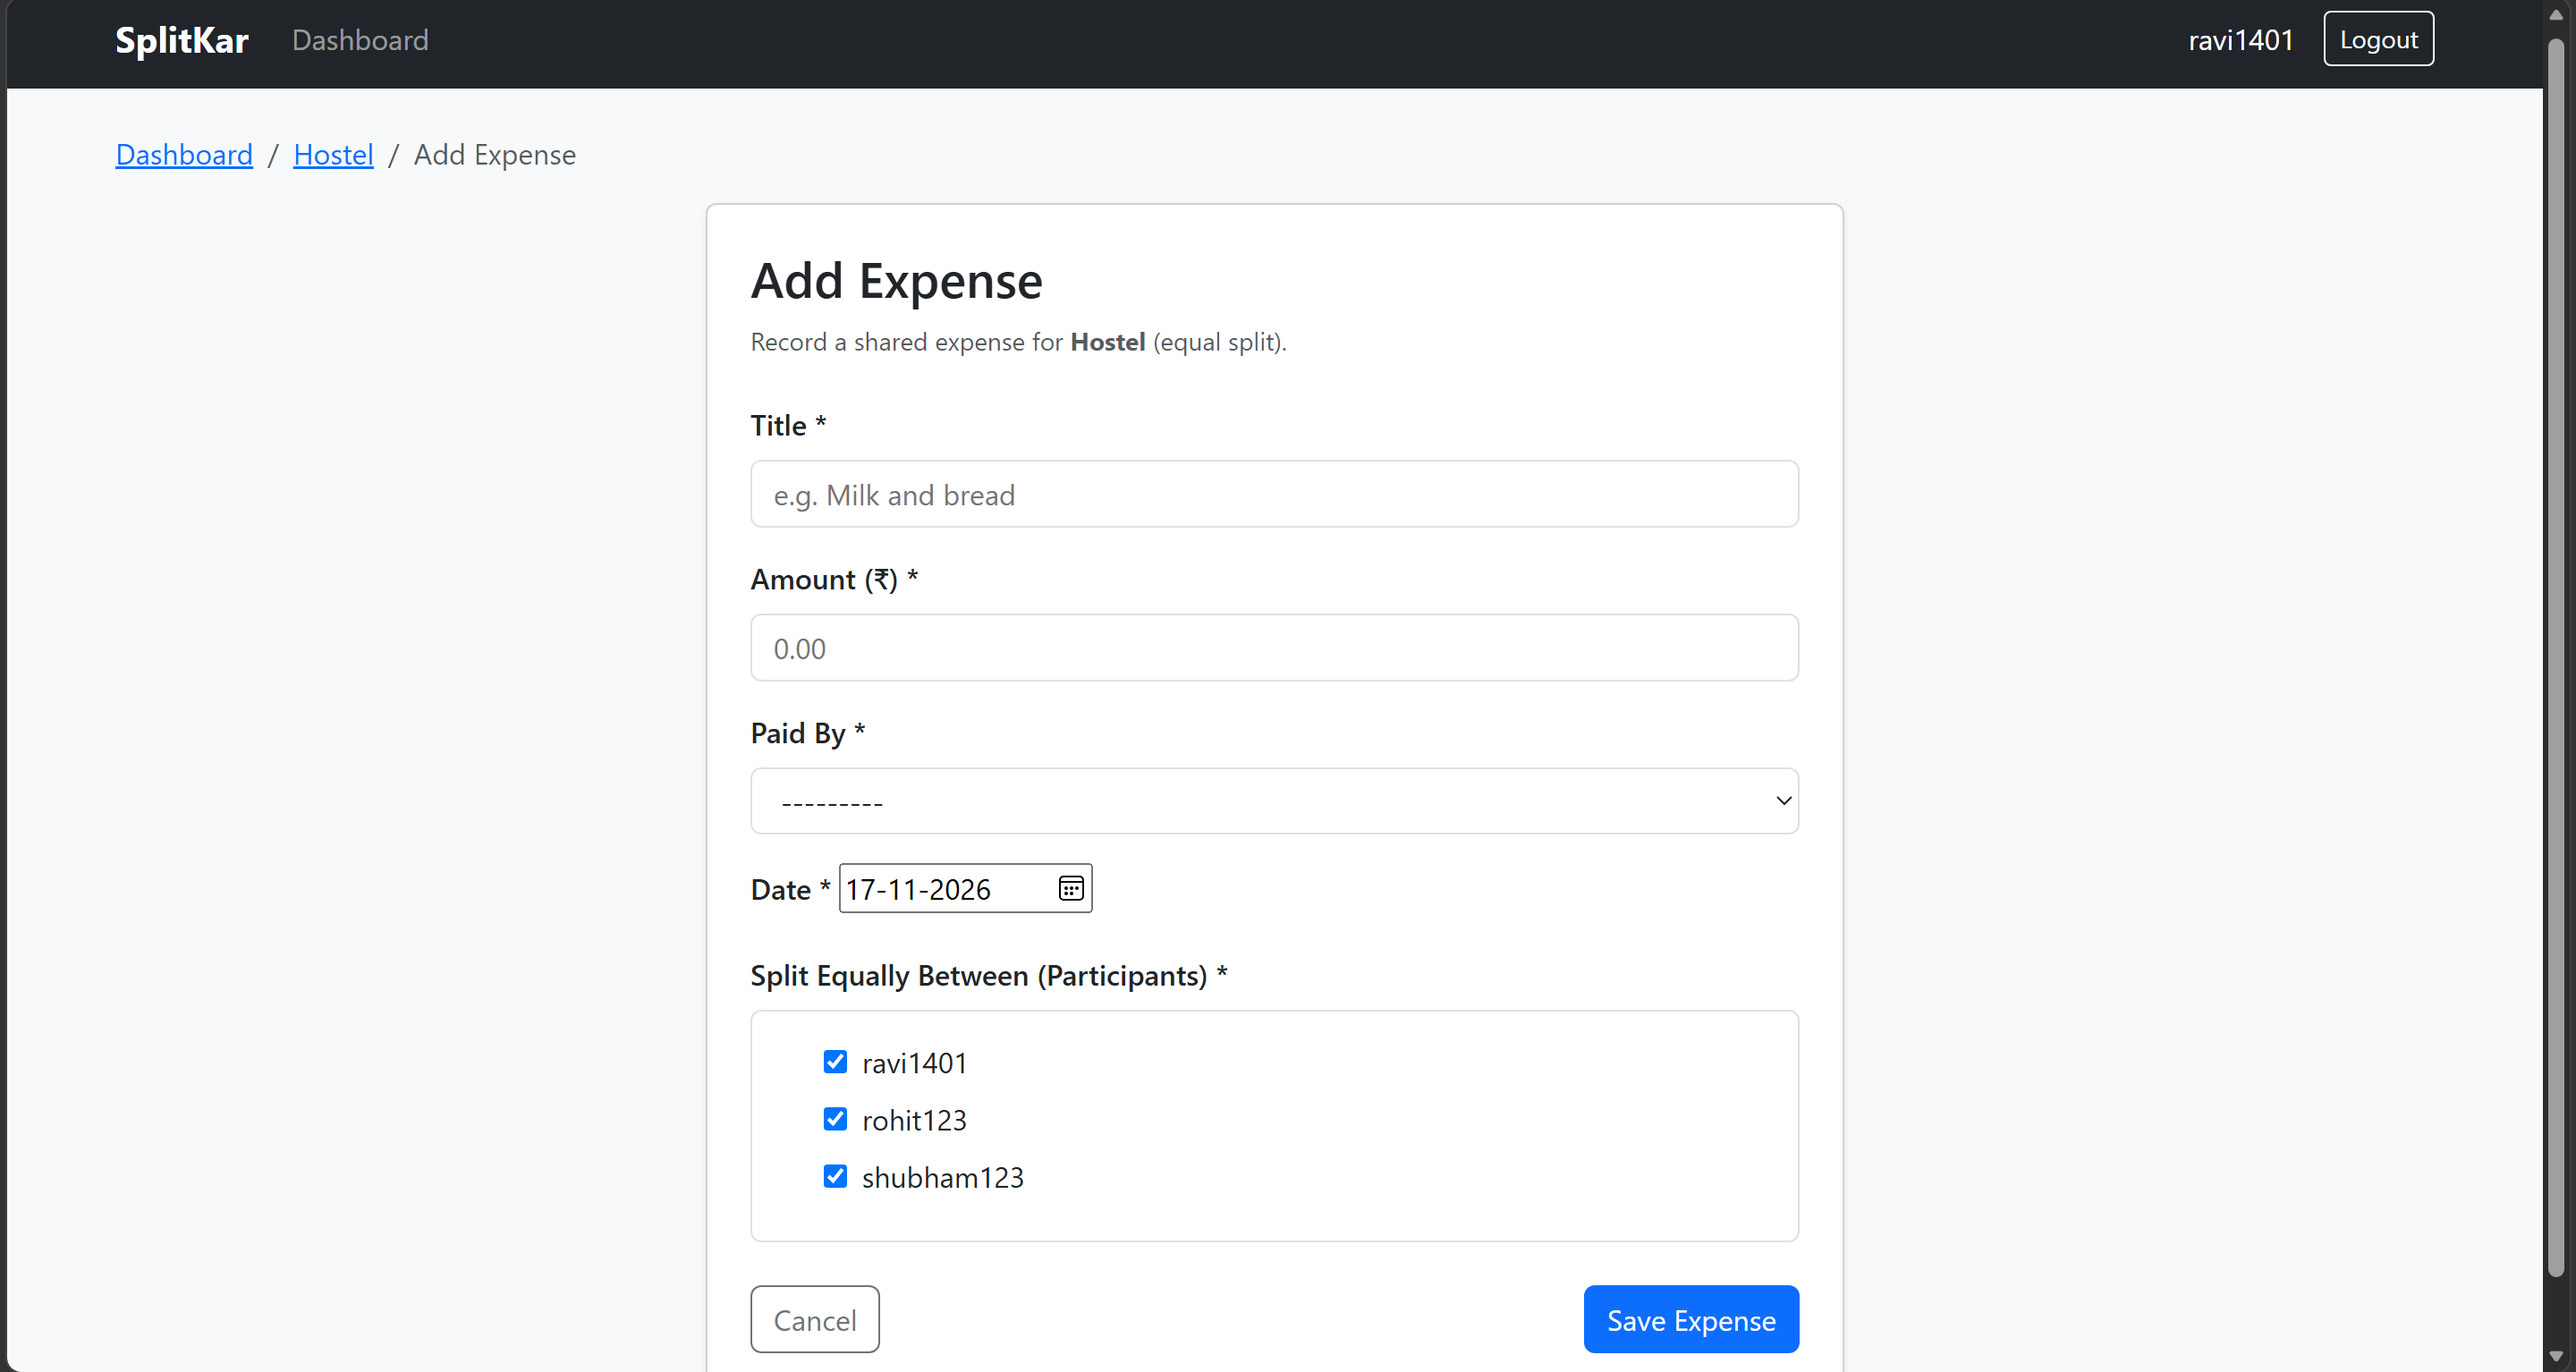
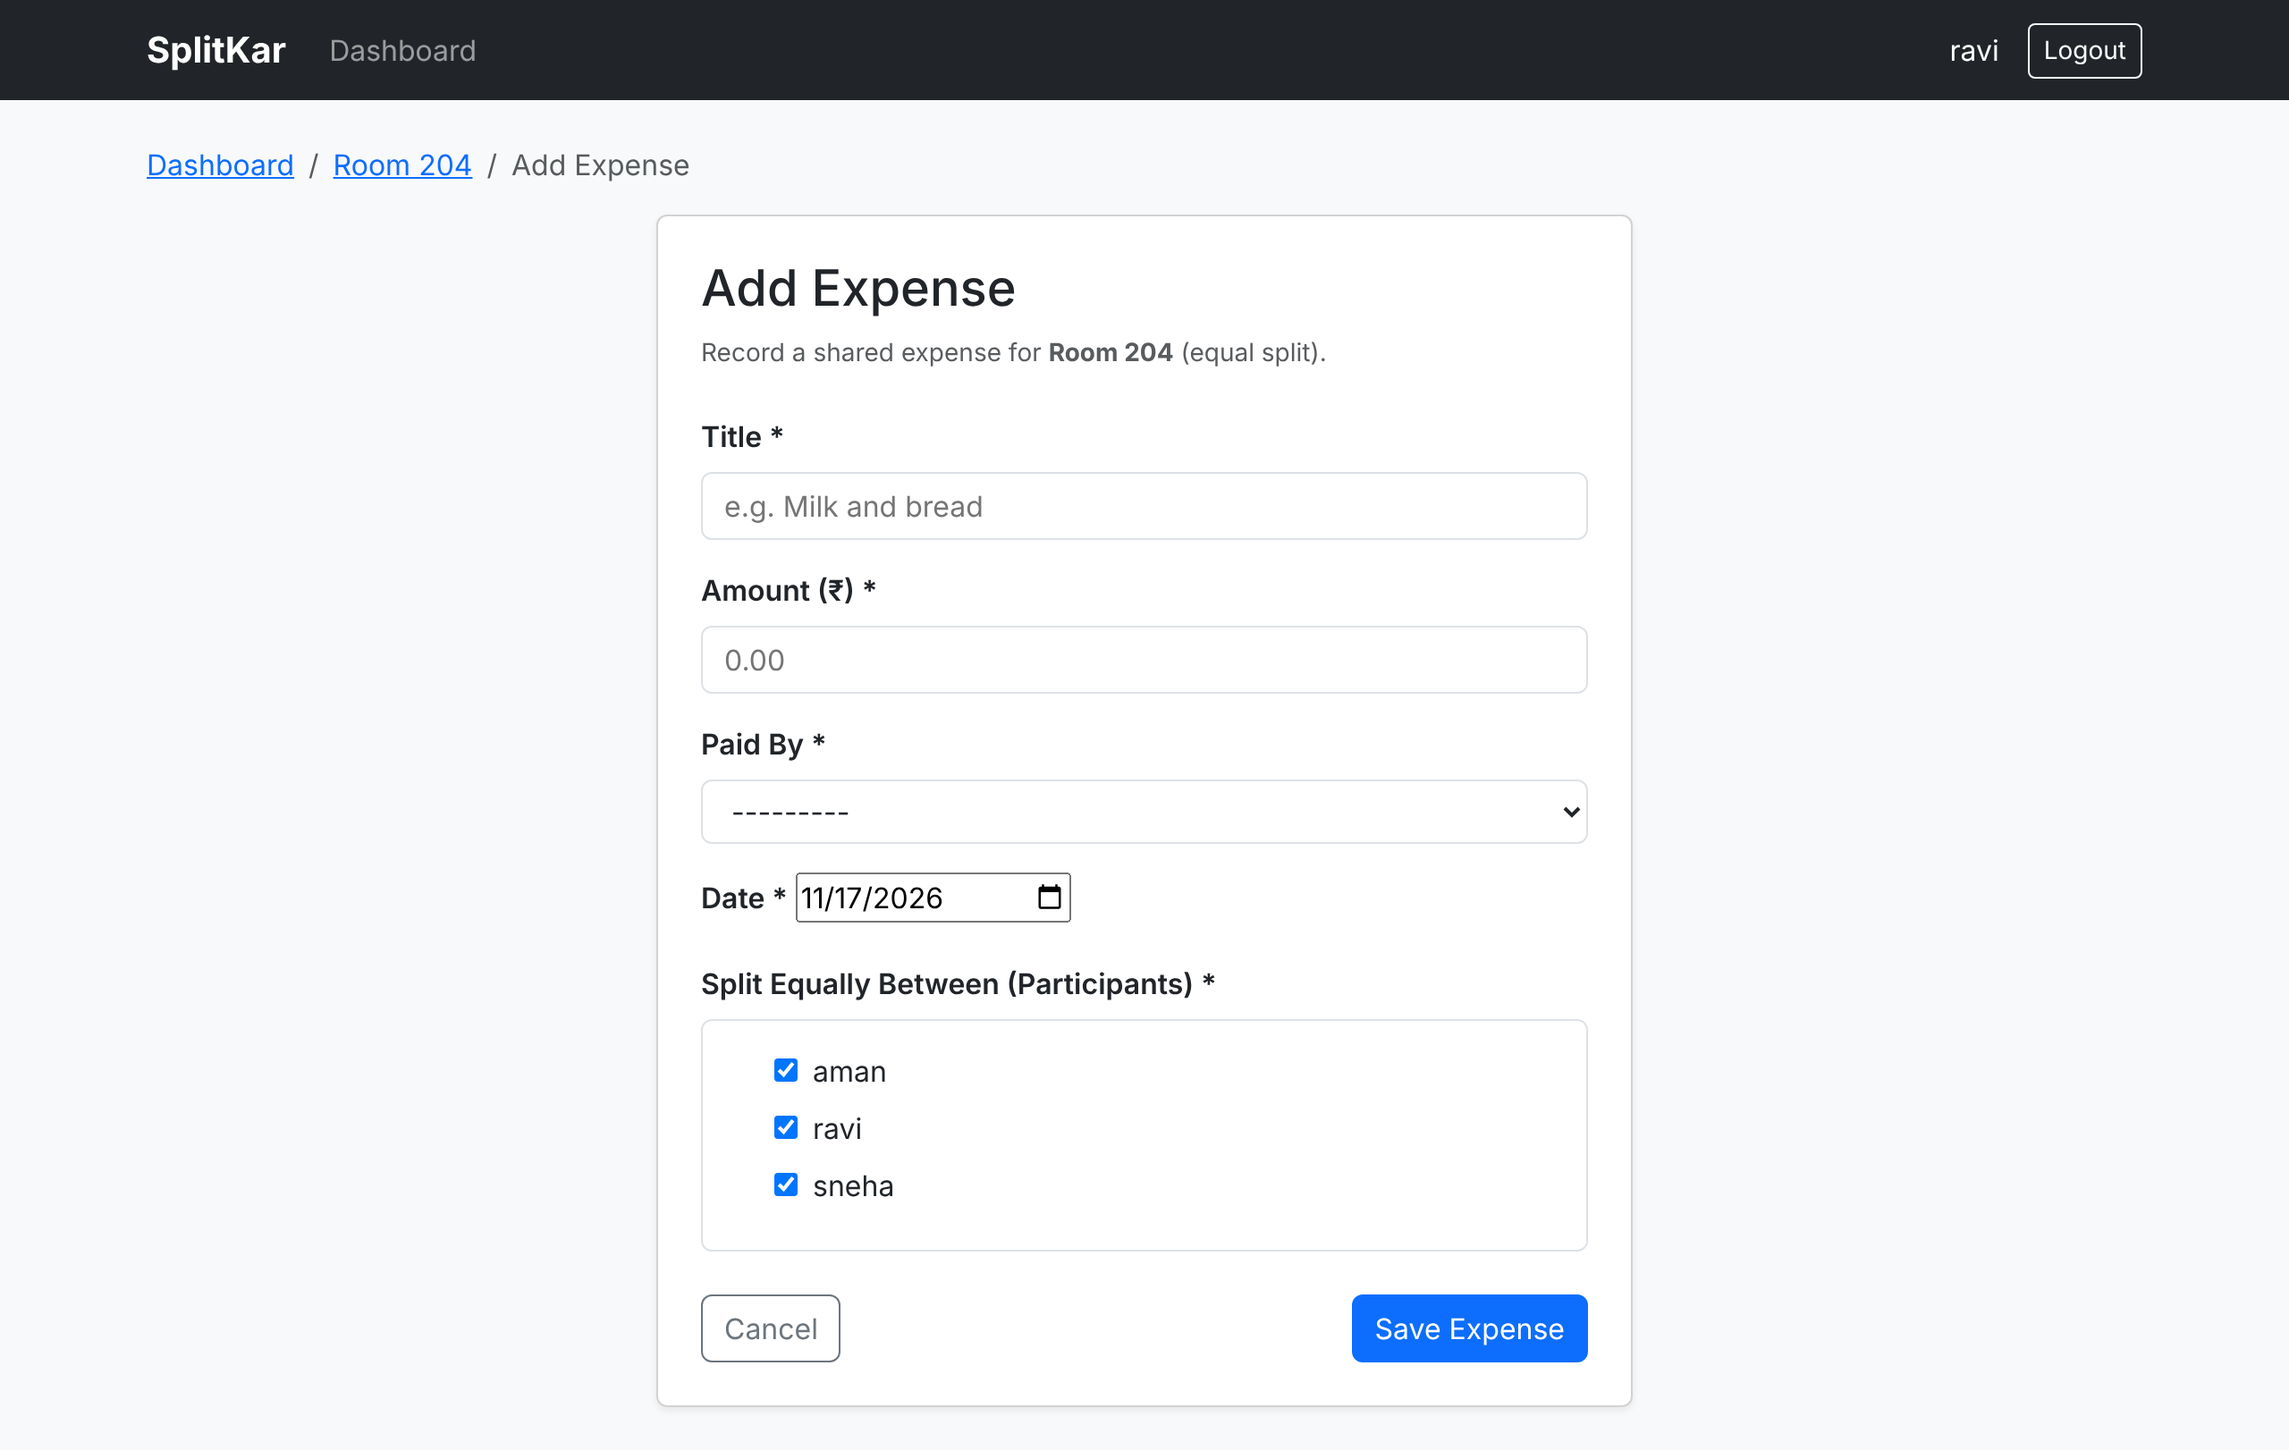
Update README and screenshots

diff --git a/README.md b/README.md
@@ -16,7 +16,6 @@ SplitKar enables friends to create shared groups (such as "Room 204" or "Goa Tri
 |:---:|:---:|:---:|
 | ![Dashboard](docs/dashboard.png) | ![Group Detail](docs/group.png) | ![Add Expense](docs/add-expense.png) |
 
-*(Screenshots can be saved as `docs/dashboard.png`, `docs/group.png`, and `docs/add-expense.png`)*
 
 ---
 
@@ -87,7 +86,7 @@ python manage.py test -v 2
 ## Project Structure
 
 ```text
-Expense Splitter/
+splitkar/
 ├── config/                  # Django project configuration
 │   ├── __init__.py
 │   ├── asgi.py
@@ -123,6 +122,7 @@ Expense Splitter/
 │       ├── group_detail.html    # Group overview, balances & expenses
 │       └── member_add.html      # Add member by username
 ├── .gitignore               # Ignores venv, db.sqlite3, __pycache__, .env
+├── LICENSE                  # MIT license
 ├── manage.py                # Django CLI utility
 ├── README.md                # Project documentation
 └── requirements.txt         # Pinned Django version
@@ -149,11 +149,10 @@ $$\text{Balance}(u) = \sum \text{Expenses Paid by } u - \sum \text{Shares Owed b
 
 ---
 
-## Current Limits (Version 1 Scope)
+## Current Limits
 
-In accordance with the Version 1 build specification, the following features are intentionally out of scope:
-- **Equal split only**: No unequal splits, percentages, or custom shares.
-- **No expense editing or deletion**: Once recorded, expenses are immutable.
-- **No settle-up / payment recording**: Tracks net balances only (who pays whom is not in v1).
-- **No member removal or group deletion**: Members cannot be removed or leave groups.
-- **No CSV exports or monthly reports**: Offline SQLite storage only.
+- Expenses are split equally only.
+- An expense cannot be edited or deleted after it is added.
+- The app shows each member's balance but not who should pay whom.
+- Members cannot be removed, and groups cannot be deleted.
+- No CSV import or export.
